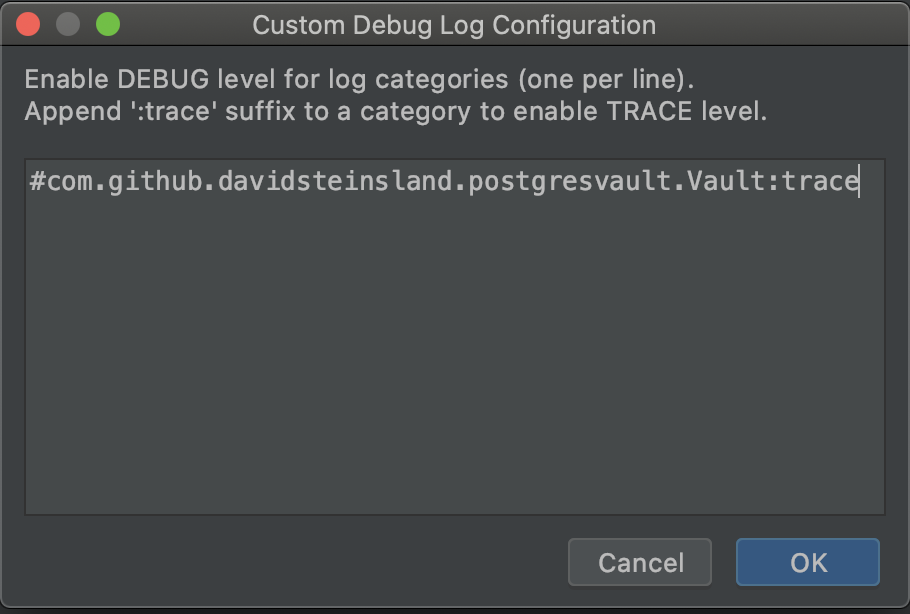
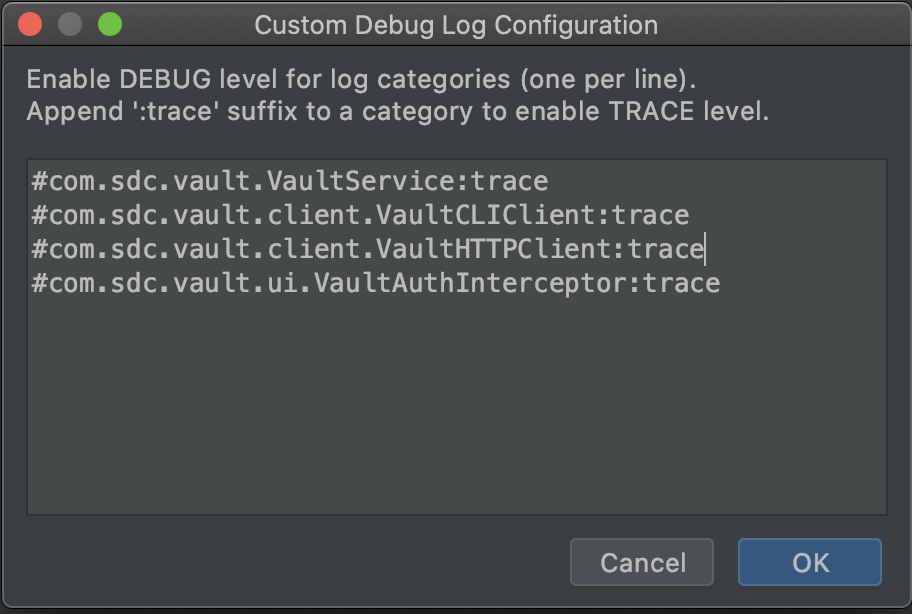
broke out CLI and service

diff --git a/src/main/kotlin/com/sdc/vault/client/VaultCLIClient.kt b/src/main/kotlin/com/sdc/vault/client/VaultCLIClient.kt
@@ -1,0 +1,95 @@
+package com.sdc.vault.client
+
+import com.fasterxml.jackson.core.JsonProcessingException
+import com.fasterxml.jackson.databind.node.ObjectNode
+import com.fasterxml.jackson.module.kotlin.jacksonObjectMapper
+import com.intellij.openapi.diagnostic.Logger
+import com.sdc.vault.VaultAuthMethod
+import com.sdc.vault.VaultBundle
+import java.io.File
+import java.io.FileNotFoundException
+import java.io.IOException
+import java.net.URI
+import java.nio.file.Paths
+import kotlin.streams.toList
+
+class VaultCLIClient {
+    private val logger = Logger.getInstance(VaultCLIClient::class.java)
+    private val mapper = jacksonObjectMapper()
+    private val vaultExec get() = findExecutable("vault")
+    private val executableSearchPaths = listOf(
+        "/usr/local/bin",
+        "/usr/bin",
+        "/bin",
+        "/usr/sbin",
+        "/sbin",
+        System.getProperty("user.home") + "/bin"
+    )
+
+    private fun findExecutable(exec: String) =
+        executableSearchPaths
+            .firstOrNull { File(it, exec).exists() }
+            ?.let { "$it/$exec" }
+            ?: exec
+
+    fun authenticate(host: URI, method: VaultAuthMethod, args: Map<String, String>): Boolean {
+        val extraArgs = args.entries.stream().map { it.toString() }.toList().toTypedArray()
+
+        logger.debug("vault login -method=${method.name.toLowerCase()} ... -format=json")
+        logger.trace("vault login -method=${method.name.toLowerCase()} ${extraArgs.contentToString()} -format=json")
+
+        val json = try {
+            executeAndReturnJson(
+                host,
+                vaultExec,
+                "login",
+                "-method=${method.name.toLowerCase()}",
+                *extraArgs,
+                "-format=json"
+            )
+        } catch (e: JsonProcessingException) {
+            logger.error("Error parsing result during authentication.", e)
+            return false
+        } catch (err: IOException) {
+            logger.error("Error executing process.", err)
+            return false
+        }
+        val username = json.path("auth").path("metadata").path("username").asText()
+        val policies = json.path("auth").path("token_policies").elements().asSequence().toList()
+        logger.debug("Login was successful. user=$username policies=$policies")
+        return true
+    }
+
+    private fun executeAndReturnJson(host: URI, vararg command: String) =
+        execute(host, ProcessBuilder(*command)) {
+            if (it.exitValue() != 0) {
+                val errorText = it.errorStream.bufferedReader().readText()
+                throw IOException(VaultBundle.property("processFailed", command, errorText))
+            }
+            mapper.readValue(it.inputStream, ObjectNode::class.java)
+        }
+
+    private fun <R> execute(host: URI, pb: ProcessBuilder, onSuccess: (Process) -> R) =
+        try {
+            logger.debug("VAULT_ADDR=${host}")
+            pb.environment()["VAULT_ADDR"] = host.toString()
+            pb.start()
+        } catch (err: IOException) {
+            throw IOException(
+                VaultBundle.property(
+                    "processFailed",
+                    pb.command().joinToString(separator = " "),
+                    err.message ?: ""
+                )
+            )
+        }.also { it.waitFor() }.let(onSuccess)
+
+    fun readToken(): String {
+        return try {
+            File(Paths.get(System.getProperty("user.home"), ".vault-token").toString()).readText(Charsets.UTF_8)
+        } catch (ex: FileNotFoundException) {
+            logger.error("Error reading token", ex)
+            return ""
+        }
+    }
+}

diff --git a/src/main/kotlin/com/sdc/vault/VaultService.kt b/src/main/kotlin/com/sdc/vault/VaultService.kt
@@ -2,13 +2,15 @@ package com.sdc.vault
 
 import com.intellij.credentialStore.Credentials
 import com.intellij.openapi.diagnostic.Logger
+import com.sdc.vault.client.VaultCLIClient
+import com.sdc.vault.client.VaultHTTPClient
 import com.sdc.vault.state.AppSettingsState
 import com.sdc.vault.state.CredentialsManager
+import com.sdc.vault.state.VaultCredentialAdapter
 import org.apache.log4j.Level
 import java.net.URI
-import kotlin.streams.toList
 
-internal class VaultService() {
+internal class VaultService {
     private val logger = Logger.getInstance(VaultService::class.java)
     private val client = VaultHTTPClient()
 
@@ -16,7 +18,30 @@ internal class VaultService() {
         logger.setLevel(Level.DEBUG)
     }
 
-    fun isAuthenticated(host: URI = URI.create(AppSettingsState.getInstance().vaultAddr), token: String = CredentialsManager.getVaultToken(getHost(host))): Boolean {
+    fun authenticate(
+        host: URI = URI.create(AppSettingsState.getInstance().vaultAddr),
+        method: VaultAuthMethod = VaultAuthMethod.OIDC,
+        args: Map<String, String> = VaultCredentialAdapter(method).credentials,
+        force: Boolean = false,
+        refresh: Boolean = false
+    ): Boolean {
+        logger.debug("Authenticate. force=$force method=$method")
+        logger.trace("Authenticate. args=$args")
+        if (!force && isAuthenticated(host)) return true
+        val client = VaultCLIClient()
+        return if (client.authenticate(getHost(host), method, args)) {
+            logger.debug("Authenticate was successful. Saving auth token.")
+            if (refresh) CredentialsManager.setVaultToken(getHost(host), client.readToken())
+            true
+        } else false
+    }
+
+    private fun isAuthenticated(
+        host: URI = URI.create(AppSettingsState.getInstance().vaultAddr),
+        token: String = CredentialsManager.getVaultToken(getHost(host))
+    ): Boolean {
+        logger.debug("Is the user authenticated. host=${host.host}")
+        logger.trace("Is the user authenticated. token=$token")
         val json = client.lookupToken(getHost(host), token)
         json?.let {
             val username = it.path("data").path("meta").path("username").asText()
@@ -30,11 +55,15 @@ internal class VaultService() {
 
     fun read(
         host: URI = URI.create(AppSettingsState.getInstance().vaultAddr),
-        token: String = CredentialsManager.getVaultToken(getHost(host)),
-        path : String
+        path: String,
+        token: String = CredentialsManager.getVaultToken(getHost(host))
     ): Credentials {
-        logger.debug("Reading credentials for host=${host.host} host=${getHost(host).host} $path token = $token")
-        val json =  client.read(getHost(host), token, path)
+        logger.debug("Reading secret. host=${getHost(host).host} path=$path")
+        logger.trace("Reading secret. token=$token")
+        authenticate(host)
+
+        logger.debug("Reading secret. Authenticated")
+        val json = client.read(getHost(host), token, path)
         json?.let {
             val username = it.path("data").path("username").asText()
             val password = it.path("data").path("password").asText()
@@ -45,5 +74,6 @@ internal class VaultService() {
         return Credentials("", "")
     }
 
-    private fun getHost(host: URI) = if (host.host.isNullOrEmpty()) URI.create(AppSettingsState.getInstance().vaultAddr) else host
+    private fun getHost(host: URI) =
+        if (host.host.isNullOrEmpty()) URI.create(AppSettingsState.getInstance().vaultAddr) else host
 }

diff --git a/src/main/kotlin/com/sdc/vault/client/VaultHTTPClient.kt b/src/main/kotlin/com/sdc/vault/client/VaultHTTPClient.kt
@@ -1,9 +1,8 @@
-package com.sdc.vault
+package com.sdc.vault.client
 
 import com.fasterxml.jackson.databind.node.ObjectNode
 import com.fasterxml.jackson.module.kotlin.jacksonObjectMapper
 import com.intellij.openapi.diagnostic.Logger
-import com.sdc.vault.state.AppSettingsState
 import java.net.Authenticator
 import java.net.URI
 import java.net.http.HttpClient
@@ -13,7 +12,7 @@ import java.net.http.HttpResponse.BodyHandlers
 import java.time.Duration
 
 
-internal class VaultHTTPClient(private val baseURI: URI = URI.create(AppSettingsState.getInstance().vaultAddr)) {
+class VaultHTTPClient {
     private val logger = Logger.getInstance(VaultHTTPClient::class.java)
     private val mapper = jacksonObjectMapper()
     private val client = HttpClient.newBuilder()
@@ -23,7 +22,8 @@ internal class VaultHTTPClient(private val baseURI: URI = URI.create(AppSettings
         .authenticator(Authenticator.getDefault())
         .build()
 
-    fun read(host: URI = baseURI, token: String, path: String): ObjectNode? {
+    fun read(host: URI, token: String, path: String): ObjectNode? {
+        logger.debug("Read secret host=${host.host} path=$path")
         val request = HttpRequest.newBuilder()
             .uri(host.resolve(URI.create("/v1/").resolve(URI.create(path))))
             .timeout(Duration.ofMinutes(2))
@@ -36,9 +36,9 @@ internal class VaultHTTPClient(private val baseURI: URI = URI.create(AppSettings
             .get()
     }
 
-    fun lookupToken(host: URI = baseURI, token: String): ObjectNode? {
+    fun lookupToken(host: URI, token: String): ObjectNode? {
         // https://www.vaultproject.io/api/auth/token#lookup-a-token-self
-        logger.debug("looking up token info about current token for ${host.toASCIIString()}")
+        logger.debug("Look up token. host=${host.host}")
         val request = HttpRequest.newBuilder()
             .uri(host.resolve(URI.create("/v1/auth/token/lookup-self")))
             .timeout(Duration.ofMinutes(2))

diff --git a/src/main/kotlin/com/sdc/vault/ui/VaultAuthInterceptor.kt b/src/main/kotlin/com/sdc/vault/ui/VaultAuthInterceptor.kt
@@ -1,8 +1,6 @@
 package com.sdc.vault.ui
 
-import com.fasterxml.jackson.core.JsonProcessingException
 import com.intellij.application.ApplicationThreadPool
-import com.intellij.credentialStore.Credentials
 import com.intellij.database.access.DatabaseCredentials
 import com.intellij.database.dataSource.DatabaseAuthProvider
 import com.intellij.database.dataSource.DatabaseConnectionInterceptor.ProtoConnection
@@ -17,7 +15,6 @@ import com.intellij.openapi.project.Project
 import com.intellij.ui.components.JBLabel
 import com.intellij.ui.components.JBTextField
 import com.intellij.uiDesigner.core.GridLayoutManager
-import com.sdc.vault.Vault
 import com.sdc.vault.VaultBundle.property
 import com.sdc.vault.VaultService
 import com.sdc.vault.state.AppSettingsState
@@ -55,7 +52,7 @@ class VaultAuthInterceptor : DatabaseAuthProvider, CoroutineScope {
 
         return future {
             val host = URI.create(connection.connectionPoint.additionalJdbcProperties["vault.addr"])
-            val credentials = VaultService().read(host, path = path)
+            val credentials = VaultService().read(host, path)
 
             logger.debug("Vault read response was successful. username=${credentials.userName}")
             logger.trace("password=${credentials.password}")

diff --git a/src/main/java/com/sdc/vault/settings/ui/AppSettingsComponent.java b/src/main/java/com/sdc/vault/settings/ui/AppSettingsComponent.java
@@ -13,14 +13,15 @@ import com.intellij.ui.TitledSeparator;
 import com.intellij.ui.components.JBTextField;
 import com.intellij.util.ui.FormBuilder;
 import com.intellij.util.ui.UI;
-import com.sdc.vault.Vault;
 import com.sdc.vault.VaultAuthMethod;
+import com.sdc.vault.VaultService;
 import com.sdc.vault.state.VaultCredentialAdapter;
 import org.jetbrains.annotations.NotNull;
 import org.jetbrains.annotations.Nullable;
 
 import javax.swing.*;
 import java.awt.*;
+import java.net.URI;
 
 /**
  * Supports creating and managing a {@link JPanel} for the Settings Dialog.
@@ -51,9 +52,7 @@ public class AppSettingsComponent {
                 protected Boolean compute(@NotNull ProgressIndicator indicator) {
                     indicator.setIndeterminate(true);
                     indicator.setText(progressText(method));
-
-                    final Vault vault = new Vault(getVaultAddrText());
-                    return vault.authenticate(method, new VaultCredentialAdapter(method).getCredentials(instance), true);
+                    return new VaultService().authenticate(URI.create(getVaultAddrText()), method, new VaultCredentialAdapter(method).getCredentials(instance), true, true);
                 }
             });
             repaint(method, isSuccess);

diff --git a/src/main/java/com/sdc/vault/state/VaultCredentialAdapter.java b/src/main/java/com/sdc/vault/state/VaultCredentialAdapter.java
@@ -3,6 +3,7 @@ package com.sdc.vault.state;
 import com.sdc.vault.VaultAuthMethod;
 import com.sdc.vault.settings.ui.AppSettingsComponent;
 
+import java.net.URI;
 import java.util.Map;
 
 public class VaultCredentialAdapter {
@@ -12,7 +13,11 @@ public class VaultCredentialAdapter {
         this.method = method;
     }
 
-    public Map<String, String> getCredentials(final CredentialsManager manager) {
+    /**
+     * Adapts {@link CredentialsManager} to {@link com.sdc.vault.VaultService#authenticate(URI, VaultAuthMethod, Map, boolean)}
+     * @return
+     */
+    public Map<String, String> getCredentials() {
         switch (method) {
             case OKTA:
                 return Map.of("username", CredentialsManager.getOKTAUsername(), "password", CredentialsManager.getOKTAPassword());
@@ -21,6 +26,11 @@ public class VaultCredentialAdapter {
         }
     }
 
+    /**
+     * Adapts {@link AppSettingsComponent} to {@link com.sdc.vault.VaultService#authenticate(URI, VaultAuthMethod, Map, boolean)}
+     * @param component
+     * @return
+     */
     public Map<String, String> getCredentials(final AppSettingsComponent component) {
         switch (method) {
             case OKTA:

diff --git a/doc-files/development.md b/doc-files/development.md
@@ -9,7 +9,9 @@
     * Append `:trace` to class name to enable trace level (warning trace level logging emits credentials)
     * Example  
         * ```
-            #com.sdc.vault.Vault:trace
+            #com.sdc.vault.VaultService:trace
+            #com.sdc.vault.client.VaultCLIClient:trace
+            #com.sdc.vault.client.VaultHTTPClient:trace
             #com.sdc.vault.ui.VaultAuthInterceptor:trace
           ```
 * Find Log File: *Help > Show Log in Finder*
